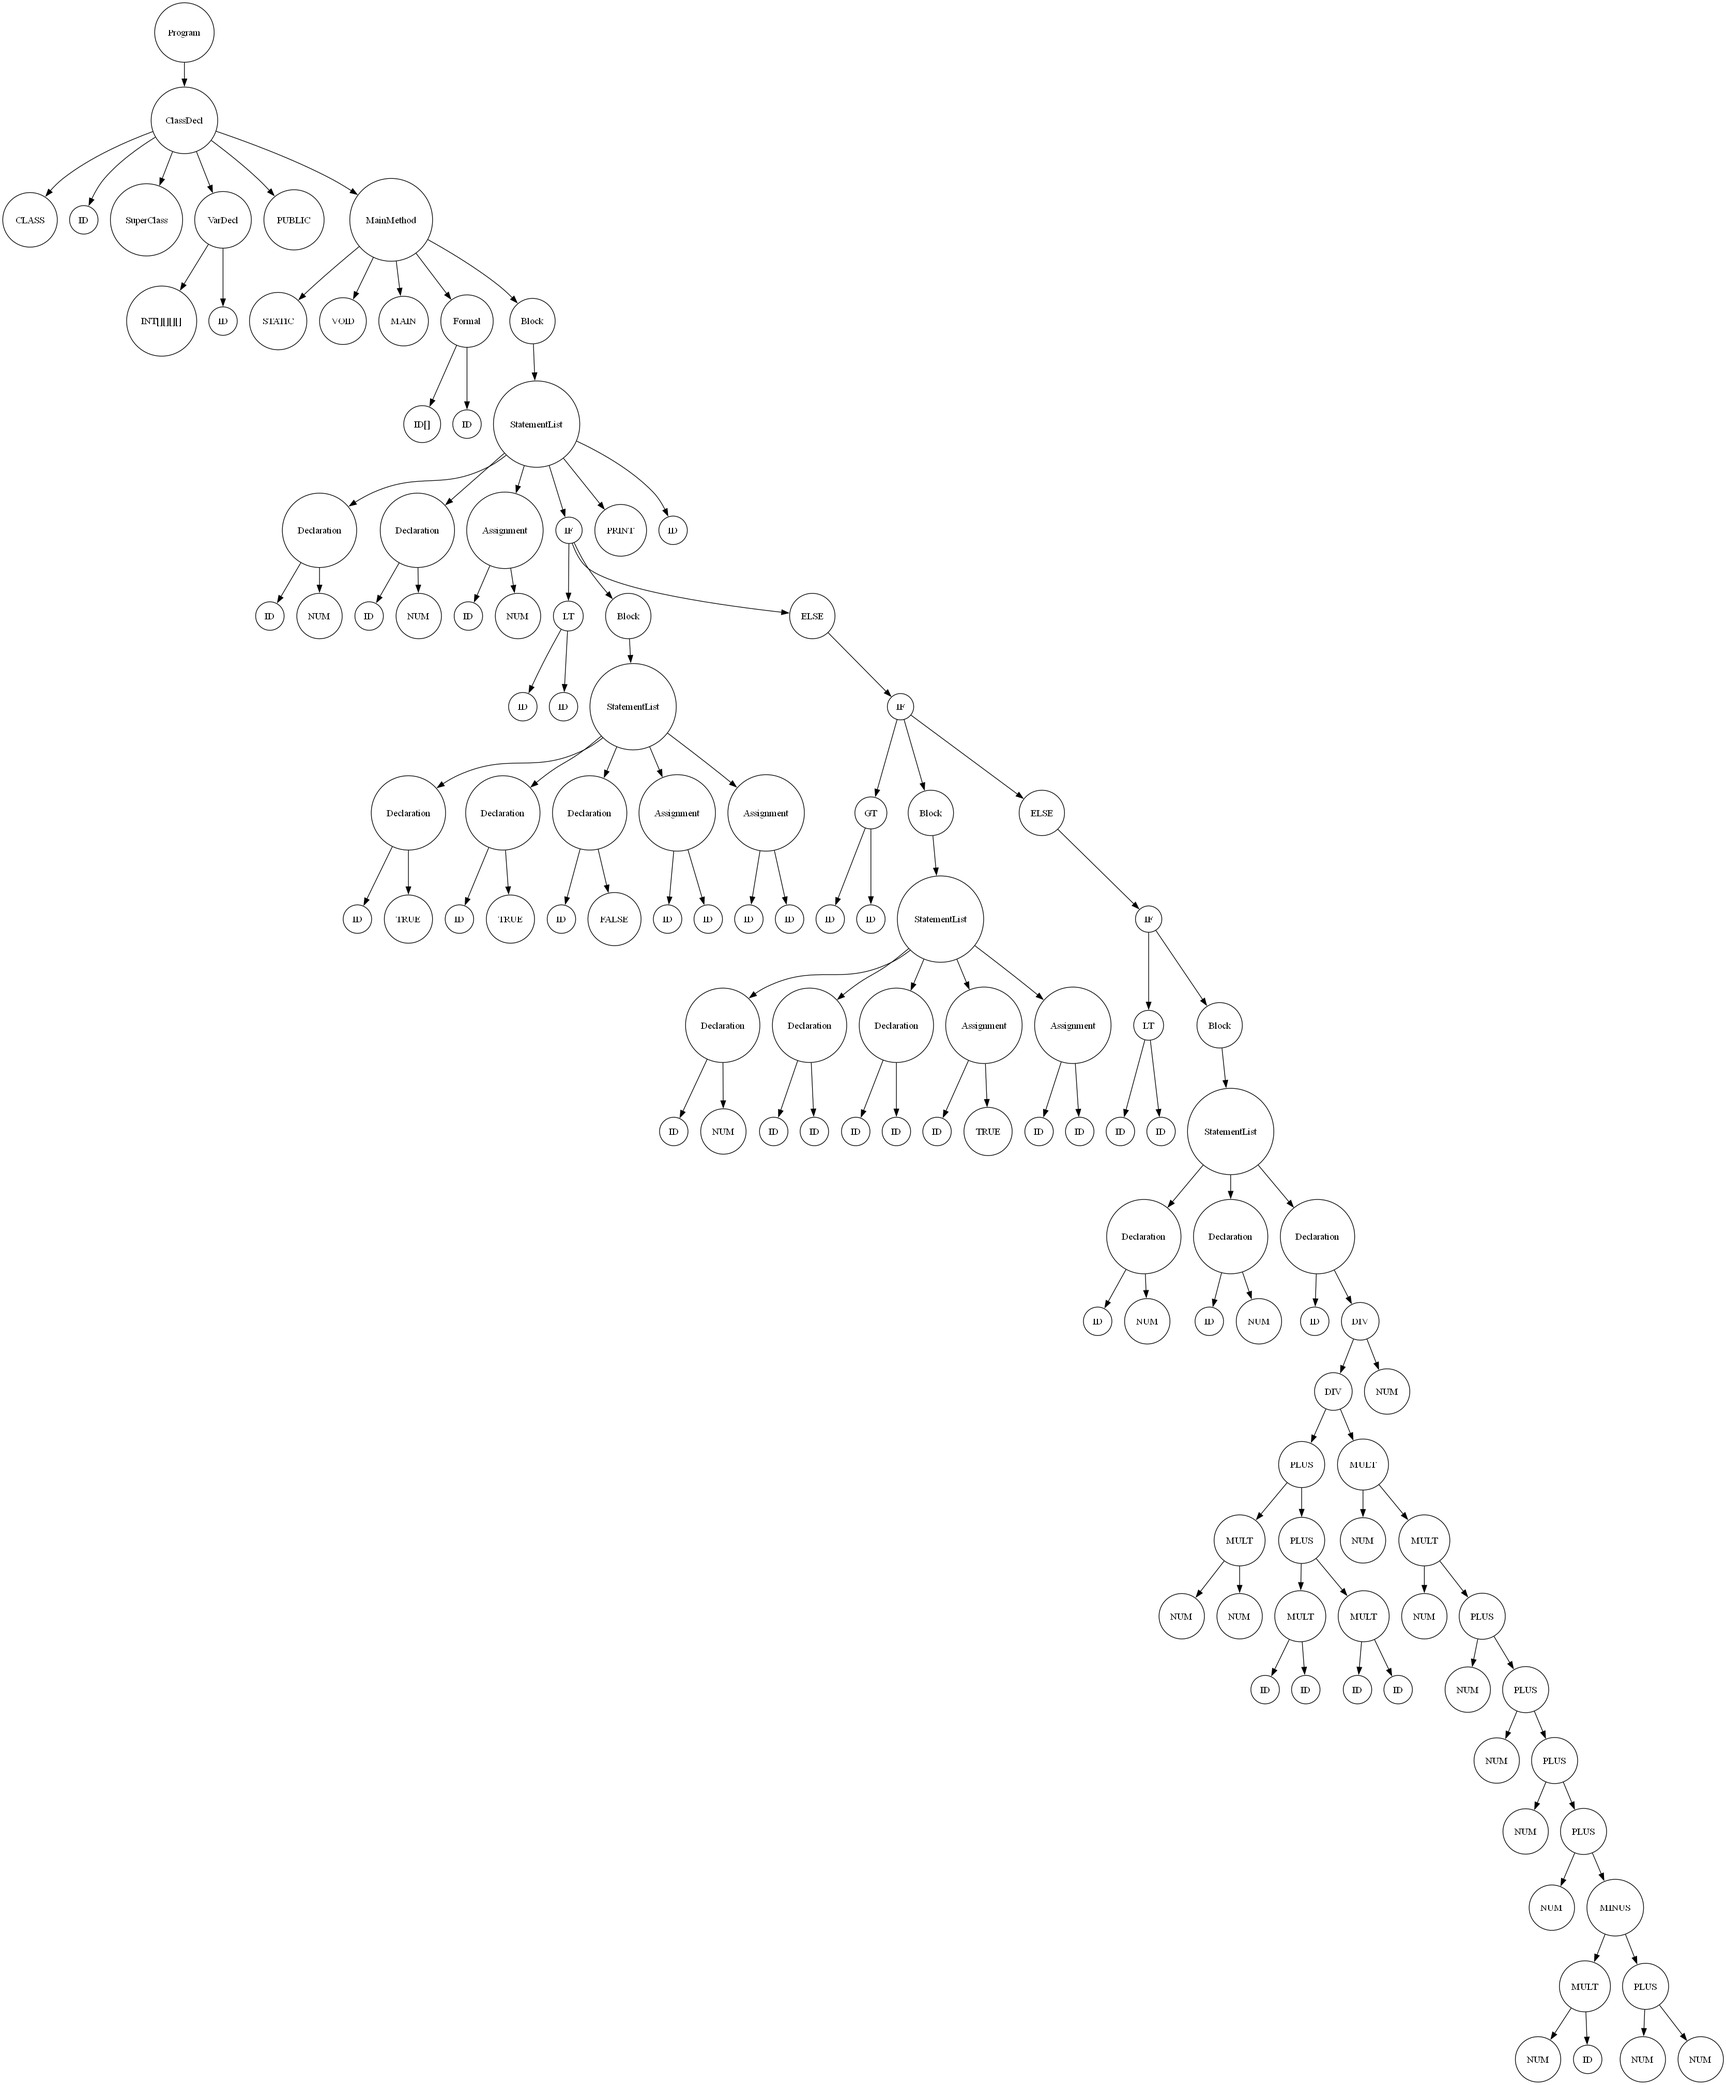
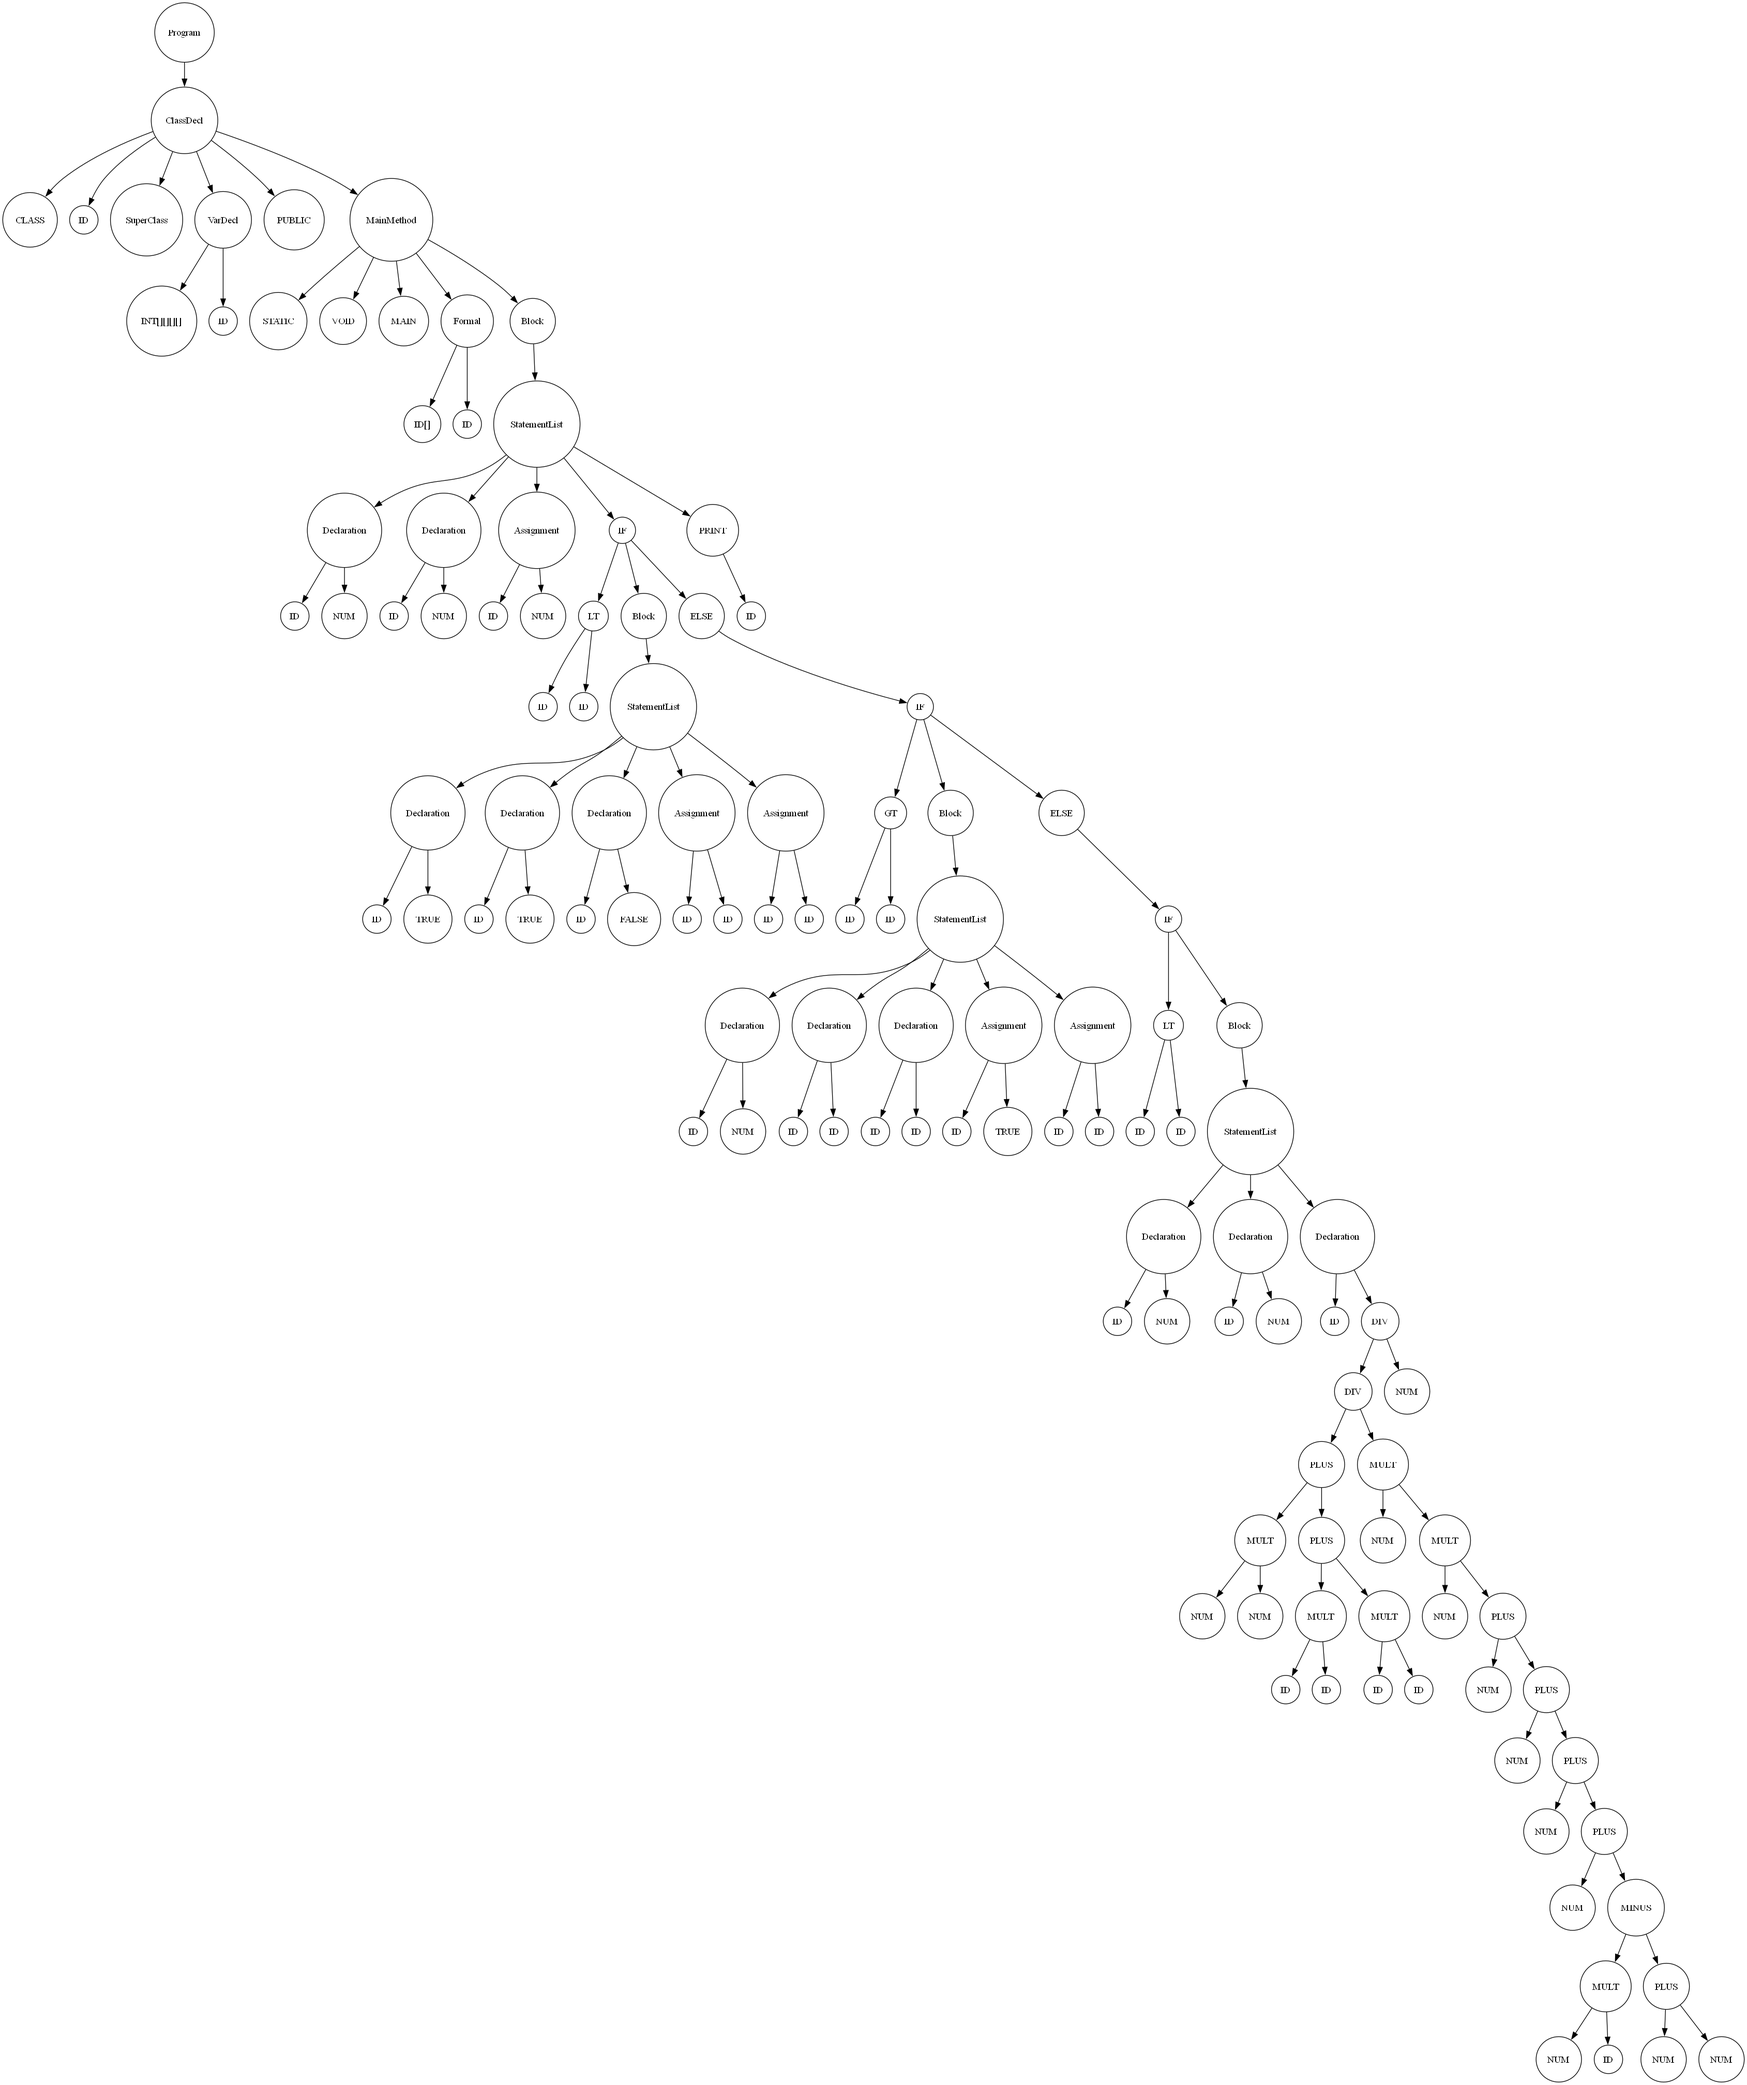
consertado erro no statement do print

diff --git a/src/abstractSyntaxTree.js b/src/abstractSyntaxTree.js
@@ -339,6 +339,9 @@ export class MiniJavaAST extends AbstractSyntaxTree{
 
     if(node.children.length == 2){
 
+      //Se o filho esquerdo não for uma lista, mantém inalterado o nó
+      if(node.children[1].type != node.type) return node
+
       //todos os netos do segundo filho viram filhos diretos do pai
       //Torna a lista linear fazendo netos virarem filhos
       return {
